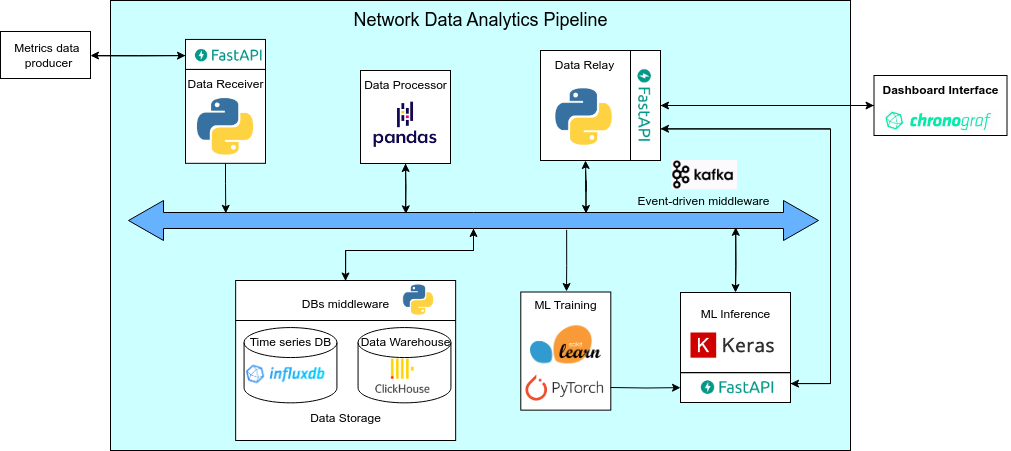
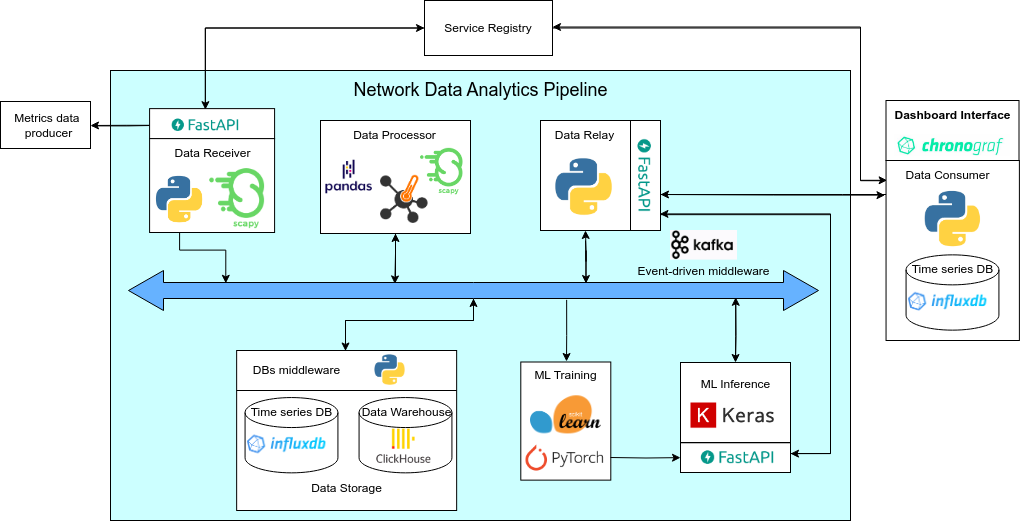
coisas da ms3, falta apresentação e demo

diff --git a/microsite/docusaurus.config.js b/microsite/docusaurus.config.js
@@ -145,6 +145,10 @@ const config = {
                 label: 'Data Flow',
                 to: 'docs/documentation/data_flow',
               },
+              {
+                label: 'Calendar',
+                to: 'docs/documentation/calendar',
+              },
 
             ],
           },
@@ -162,6 +166,10 @@ const config = {
               {
                 label: 'Checkpoint 1',
                 to: 'docs/deliverables/checkpoint1',
+              },
+              {
+                label: 'MS3 - Construction Phase',
+                to: 'docs/deliverables/ms3',
               },
             ],
           },
@@ -195,6 +203,10 @@ const config = {
               {
                 label: 'Minute 7',
                 to: 'blog/Minute7/minute7',
+              },
+              {
+                label: 'Minute 8',
+                to: 'blog/Minute8/minute8',
               },
             ],
           },

diff --git a/microsite/blog/Minute8/minute8.md b/microsite/blog/Minute8/minute8.md
@@ -1,0 +1,82 @@
+---
+title: "Minute 8"
+date: "2025-04-07"
+authors: [rodrigo]
+---
+
+# Fase: MS3
+
+## Método
+**Presencial**
+
+## Duração
+**9:00 - 10:00**
+
+## Supervisores presentes
+- Rafael Teixeira ✔
+- Rafael Direito ✔
+
+## Membros presentes
+- Rodrigo Abreu ✔
+- Eduardo Lopes ✔
+- João Neto ✔
+- Hugo Ribeiro ✔
+- Jorge Domingues ✔
+
+## Assuntos discutidos
+- Apresentação MS3
+- Groundtruth
+- Estado da implementação
+- Próximos passos
+
+## Resumo
+### Powerpoint
+
+- Alterar última linha do SoA. -> Apontar a lacuna e o que nós vamos melhorar.
+- Arquitetura -> alterar a ligação do chronograph ao service register.
+- Alterar diagramando deployment -> Adicionar as novas coisas.
+- Alterar foto do pacote JSON -> Dividir em 2 para ficar readable e dar highlight a partes importantes.
+- Future work -> Falta falar de ML.
+- Demo -> mostrar interface, logs, containers e código.
+- Mostrar calendário atualizado (de forma dinâmica).
+
+
+
+### Geral
+
+- No processor fazer chunking. 
+- Documentar tópicos do kafka.
+
+
+### Groundtruth
+
+- Match do timestamp com o timestamp do pacote.
+- Usar timestamp e ports para verificar o que estava a acontecer.
+- Fazer subset dos ataques.
+- Timestamps: start time é o inicio da flow e last time o fim. (uma flow inclui vários pacotes)
+- Carregar o CSV do groundtruth em memória.
+- Se der valores diferentes, não preocupar porque pode ter havido mudanças no código do nProbe.
+
+
+### ML
+
+- O modelo só treina quando tem dados suficientes. 
+- Acumula dados num buffer e depois usa para treino.
+
+## Data Processor
+
+- Meter o pré-processamento das queries da BD do lado do Processor.
+
+## Notas
+- Acabar o powerpoint ASAP.
+- Atualizar Microsite com as coisas da MS3.
+
+
+
+## Ficheiros relacionados
+
+- Arquitetura do MVP
+![Arquitetura do MVP](/img/diagrams/arquitetura_mvp.png)
+
+- Arquitetura Final
+![Architecture Diagram](/img/diagrams/arquitetura.png)

diff --git a/microsite/docs/documentation/calendar.md b/microsite/docs/documentation/calendar.md
@@ -1,0 +1,8 @@
+---
+sidebar_position: 8
+---
+
+# Updated Calendar
+Updated the project calendar, outlining tasks along the timeline and detailing work distribution among team members.
+
+[Calendar](/files/calendar.pdf)

diff --git a/microsite/docs/deliverables/ms1.md b/microsite/docs/deliverables/ms1.md
@@ -7,4 +7,4 @@ Deliverables from Milestone 1 - Inception
 
 [M1 Presentation](/files/ms1.pdf)
 
-[Calendar](/files/calendar_v4.pdf)
+[Calendar](/files/calendar_ms1.pdf)

diff --git a/microsite/docs/deliverables/checkpoint1.md b/microsite/docs/deliverables/checkpoint1.md
@@ -3,4 +3,4 @@ sidebar_position: 3
 ---
 
 # Checkpoint 1
-[Checkpoint 1 Presentation](/files/checkpoint1.pdf)
+[Checkpoint 1 Presentation](/files/calendar.pdf)

diff --git a/microsite/docs/deliverables/ms3.md b/microsite/docs/deliverables/ms3.md
@@ -1,0 +1,7 @@
+---
+sidebar_position: 4
+---
+
+# Milestone 3
+- Milestone 3 presentation
+- Demo
